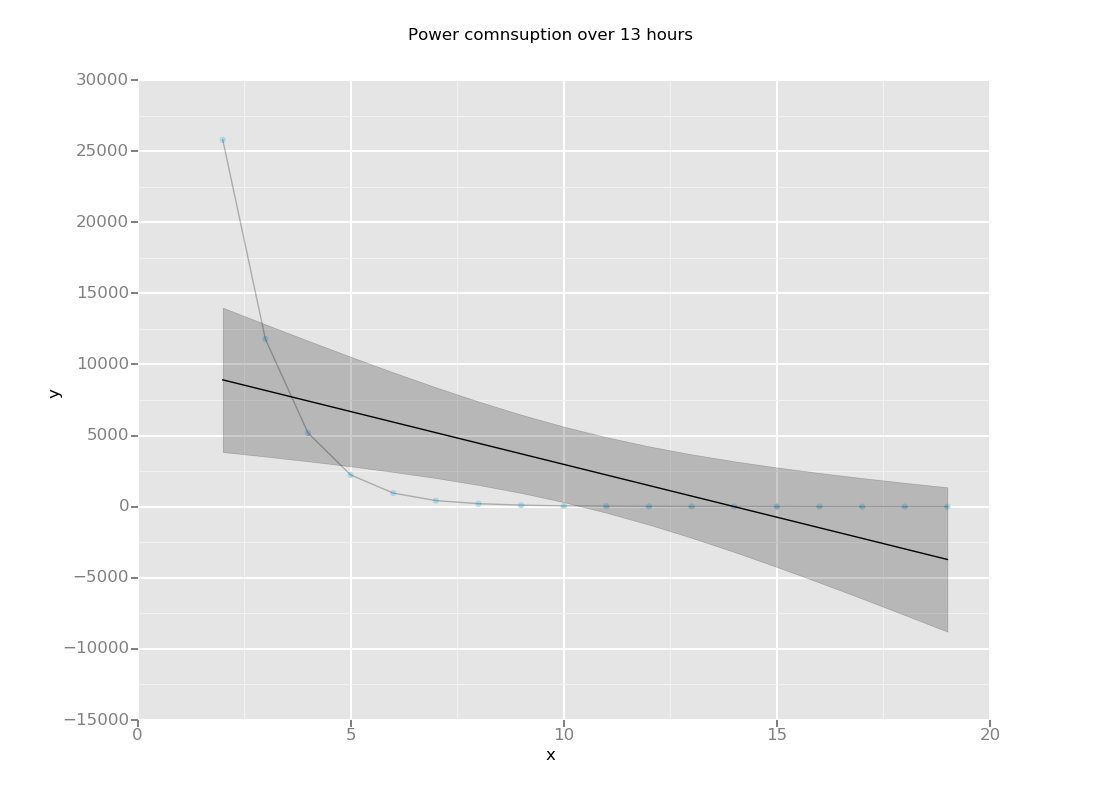
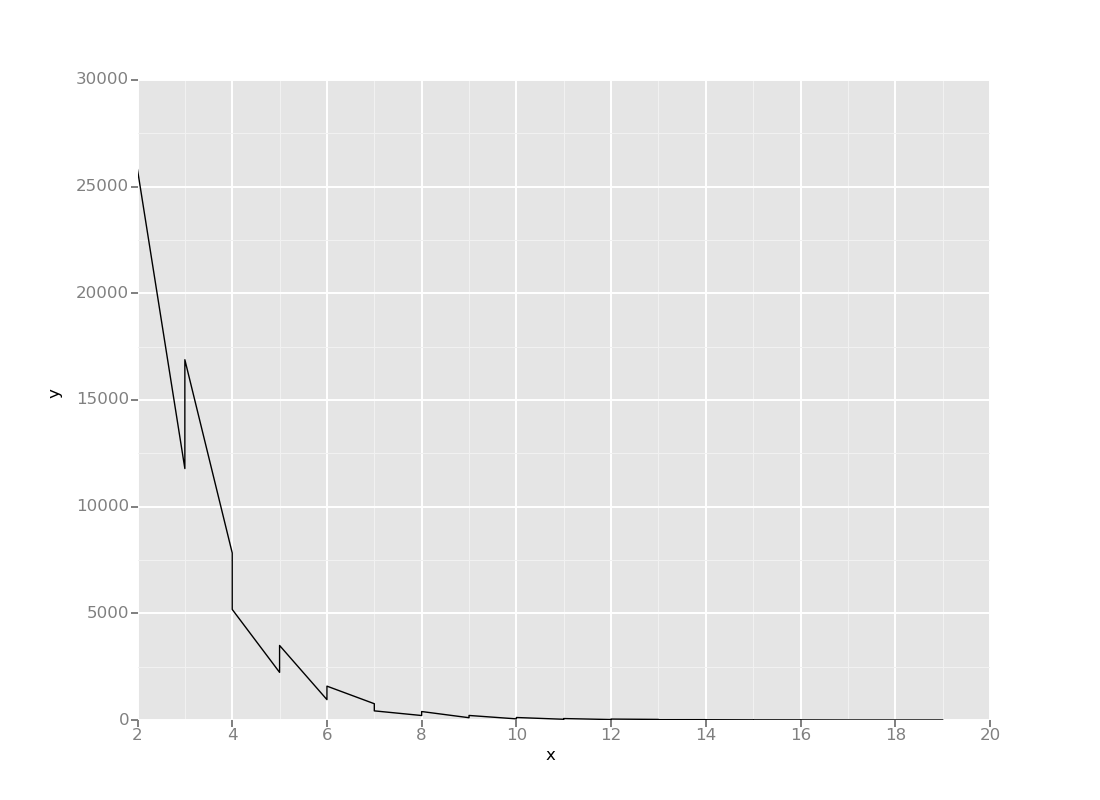
ggplot more

diff --git a/scripts/data_analysis.py b/scripts/data_analysis.py
@@ -178,27 +178,24 @@ class JsonStatsCollections:
         i = 0
         for c in self.coll: 
             if is_freq == False:
-                ggClique = self.transformDataGgPlot(self.coll[c].clique)
-                ggTruss  = self.transformDataGgPlot(self.coll[c].truss)
-                ggCore   = self.transformDataGgPlot(self.coll[c].core)
-                ggDbscan = self.transformDataGgPlot(self.coll[c].dbscan)
-                p = ggplot(aes(x='x', y='y'), data=ggClique) + \
-                        geom_point(color='lightblue') + \
-                        geom_line(alpha=0.25) + \
-                        stat_smooth(span=.05, color='black') + \
-                        ggtitle("Power comnsuption over 13 hours") + \
-                        xlab("x") + \
-                        ylab("y")
+                d = self.transformDataGgPlot(c)
+                p = ggplot(aes(x='x', y='y'), data = d) + geom_line();
                 print ofname
                 p.save(ofname)
 
 
 
-    def transformDataGgPlot(self, item):
+    def transformDataGgPlot(self, c):
         ret = []
+        item = self.coll[c].truss
         for i in range(0, len(item['x'])):
-            pair = {'x': item['x'][i], 'y' : item['y'][i]}
-            ret.append(pair)
+            trip = {'data': 'truss', 'x': item['x'][i], 'y' : item['y'][i]}
+            ret.append(trip)
+
+        item = self.coll[c].clique
+        for i in range(0, len(item['x'])):
+            trip = {'data': 'clique', 'x': item['x'][i], 'y' : item['y'][i]}
+            ret.append(trip)
         return DataFrame(ret)
         
 
